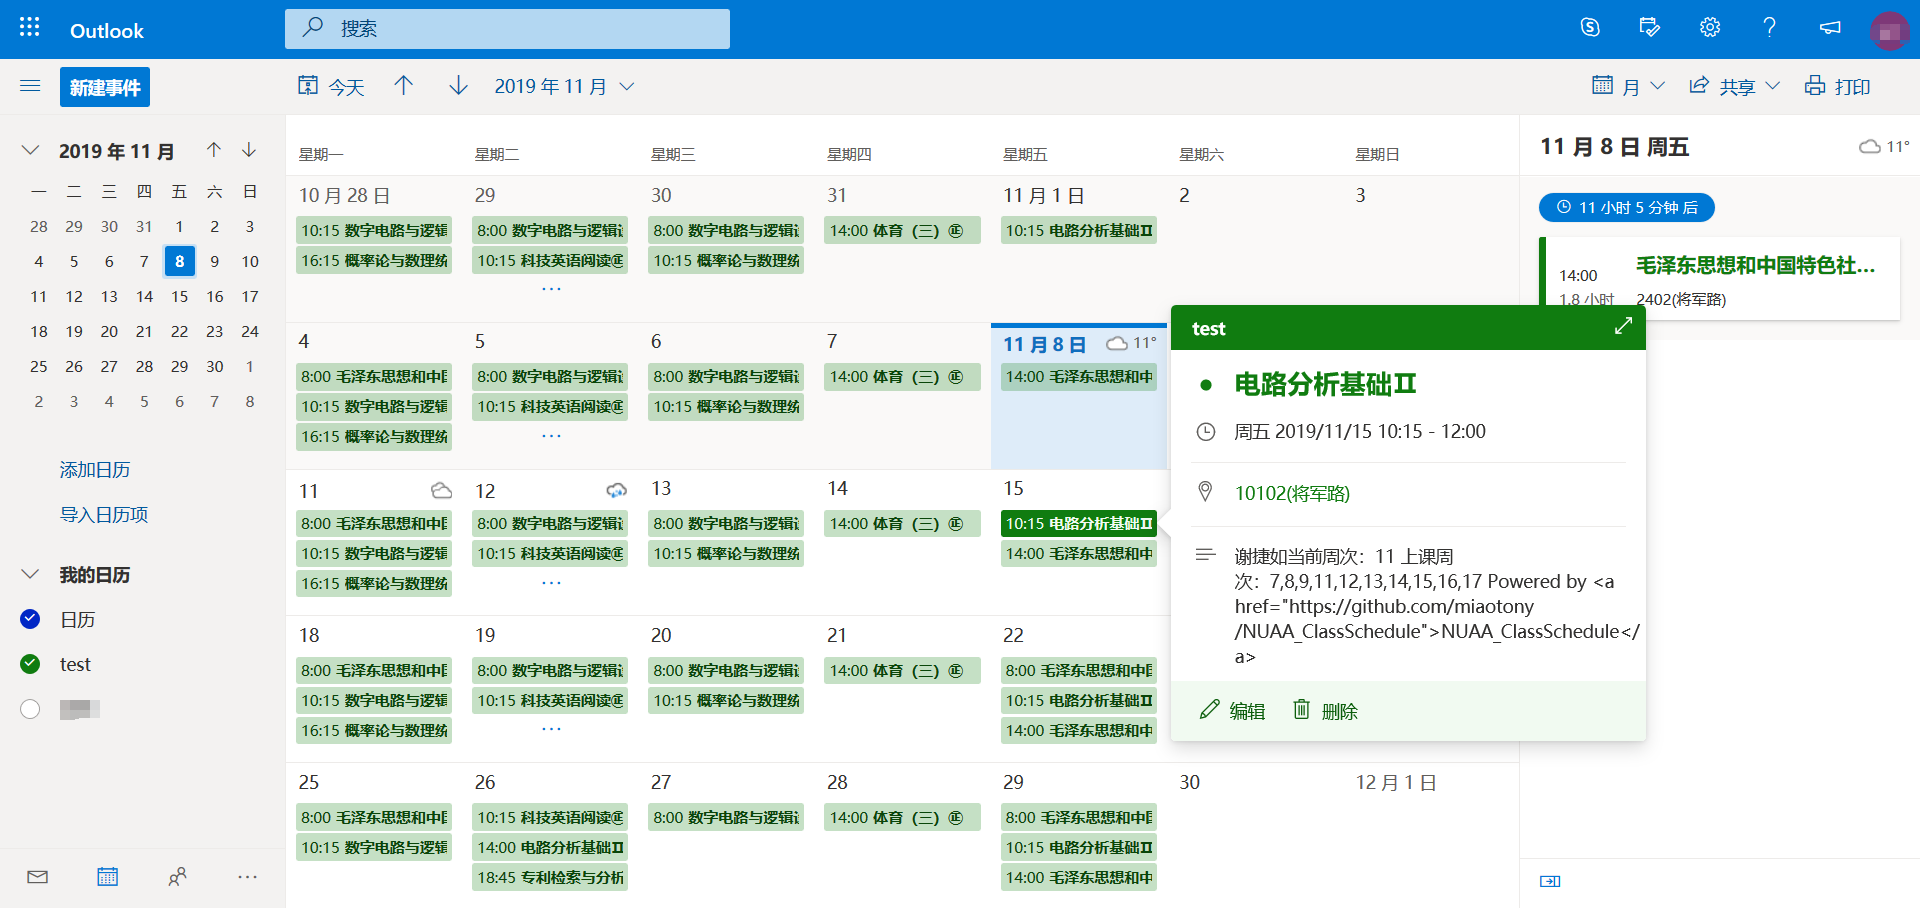
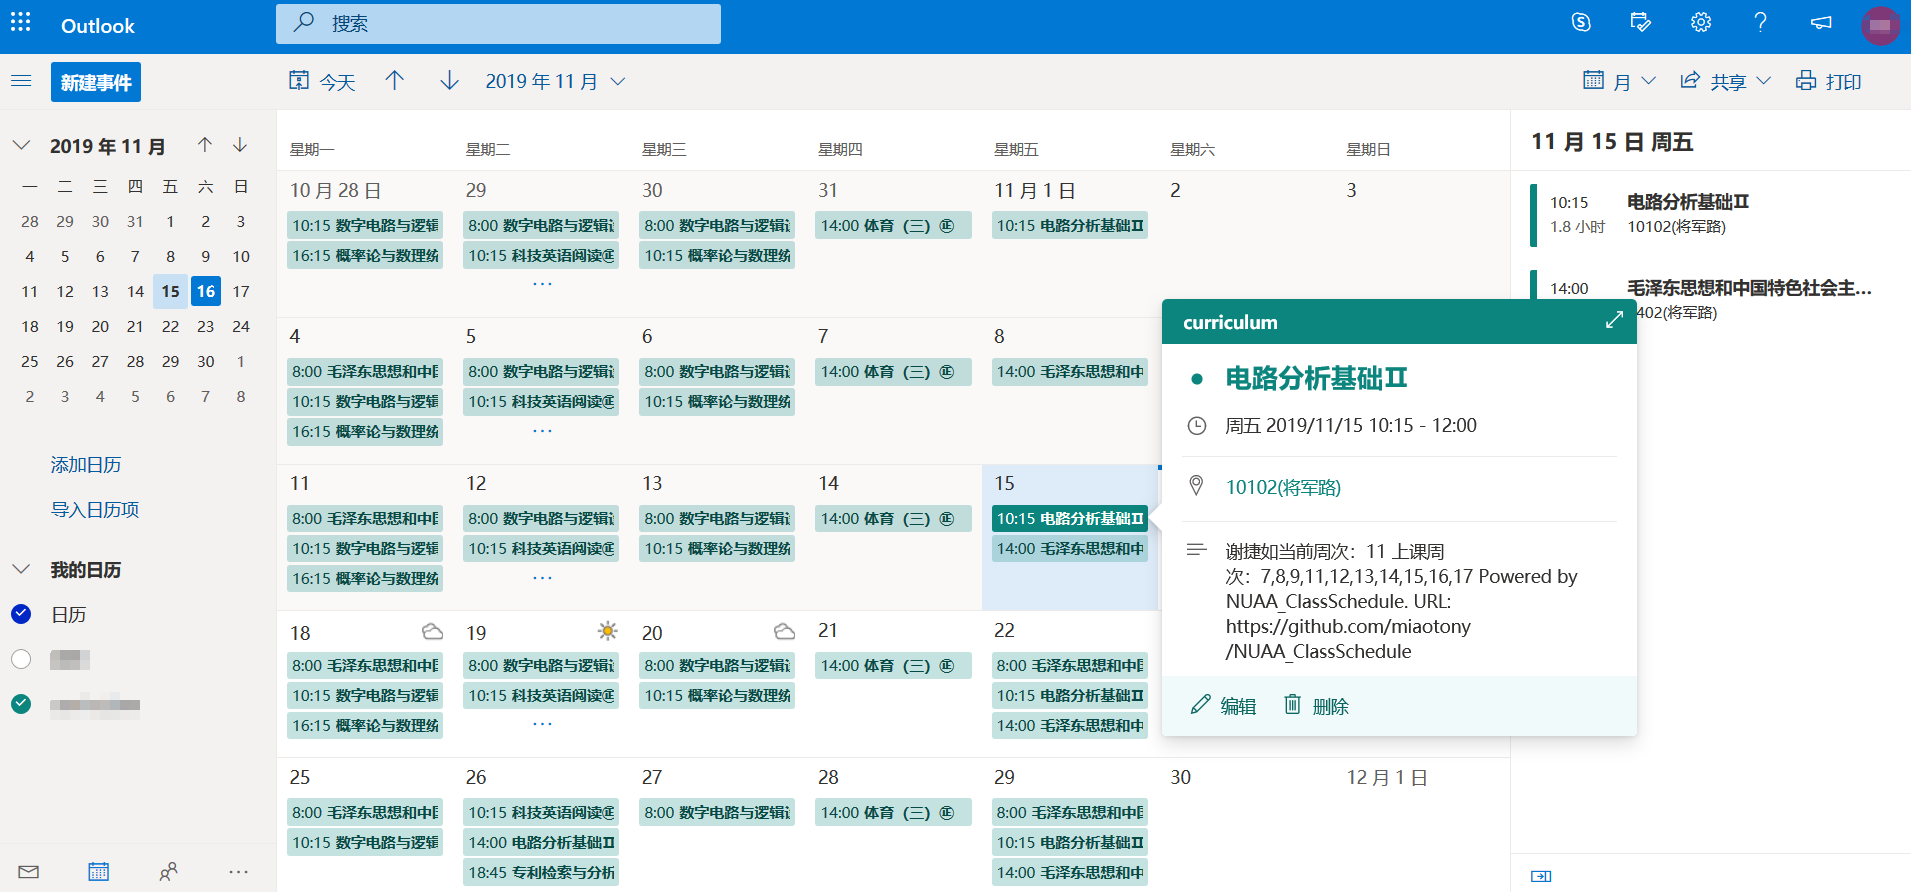
Update README.md and some screenshots.

diff --git a/README.md b/README.md
@@ -151,18 +151,20 @@ optional arguments:
 ### **Screenshots 使用截图**    
 
 **使用命令行参数：**  
-![V0.7.0.20191109-1](img/V0.7.0.20191109-1.png)  
+![V0.10.0.20191116](img/V0.10.0.20191116.png)  
 
 **控制台输入：**  
 ![V0.4.0.20191026-1](img/V0.4.0.20191026-1.png)  
 
 **导出`.ics`文件：**   
-![V0.6.0.20191108-1.png](img/V0.6.0.20191108-1.png)  
+![successful_export_example](img/successful_export_example.png)  
 
 **将`.ics`导入到Outlook的效果：**   
 ![Outlook_example.png](img/Outlook_example.png)  
+客户端：  
+![Outlook_example_iPad.png](img/Outlook_example_iPad.png)  
 
-**将课表导出到`.xlsx`文件：**
+**将课表导出到`.xlsx`文件：**  
 ![xlsx_file](img/V0.8.0.20191112.png)
 
 **使用`.exe`程序执行：**（V0.9.0.20191115 开始支持）  
